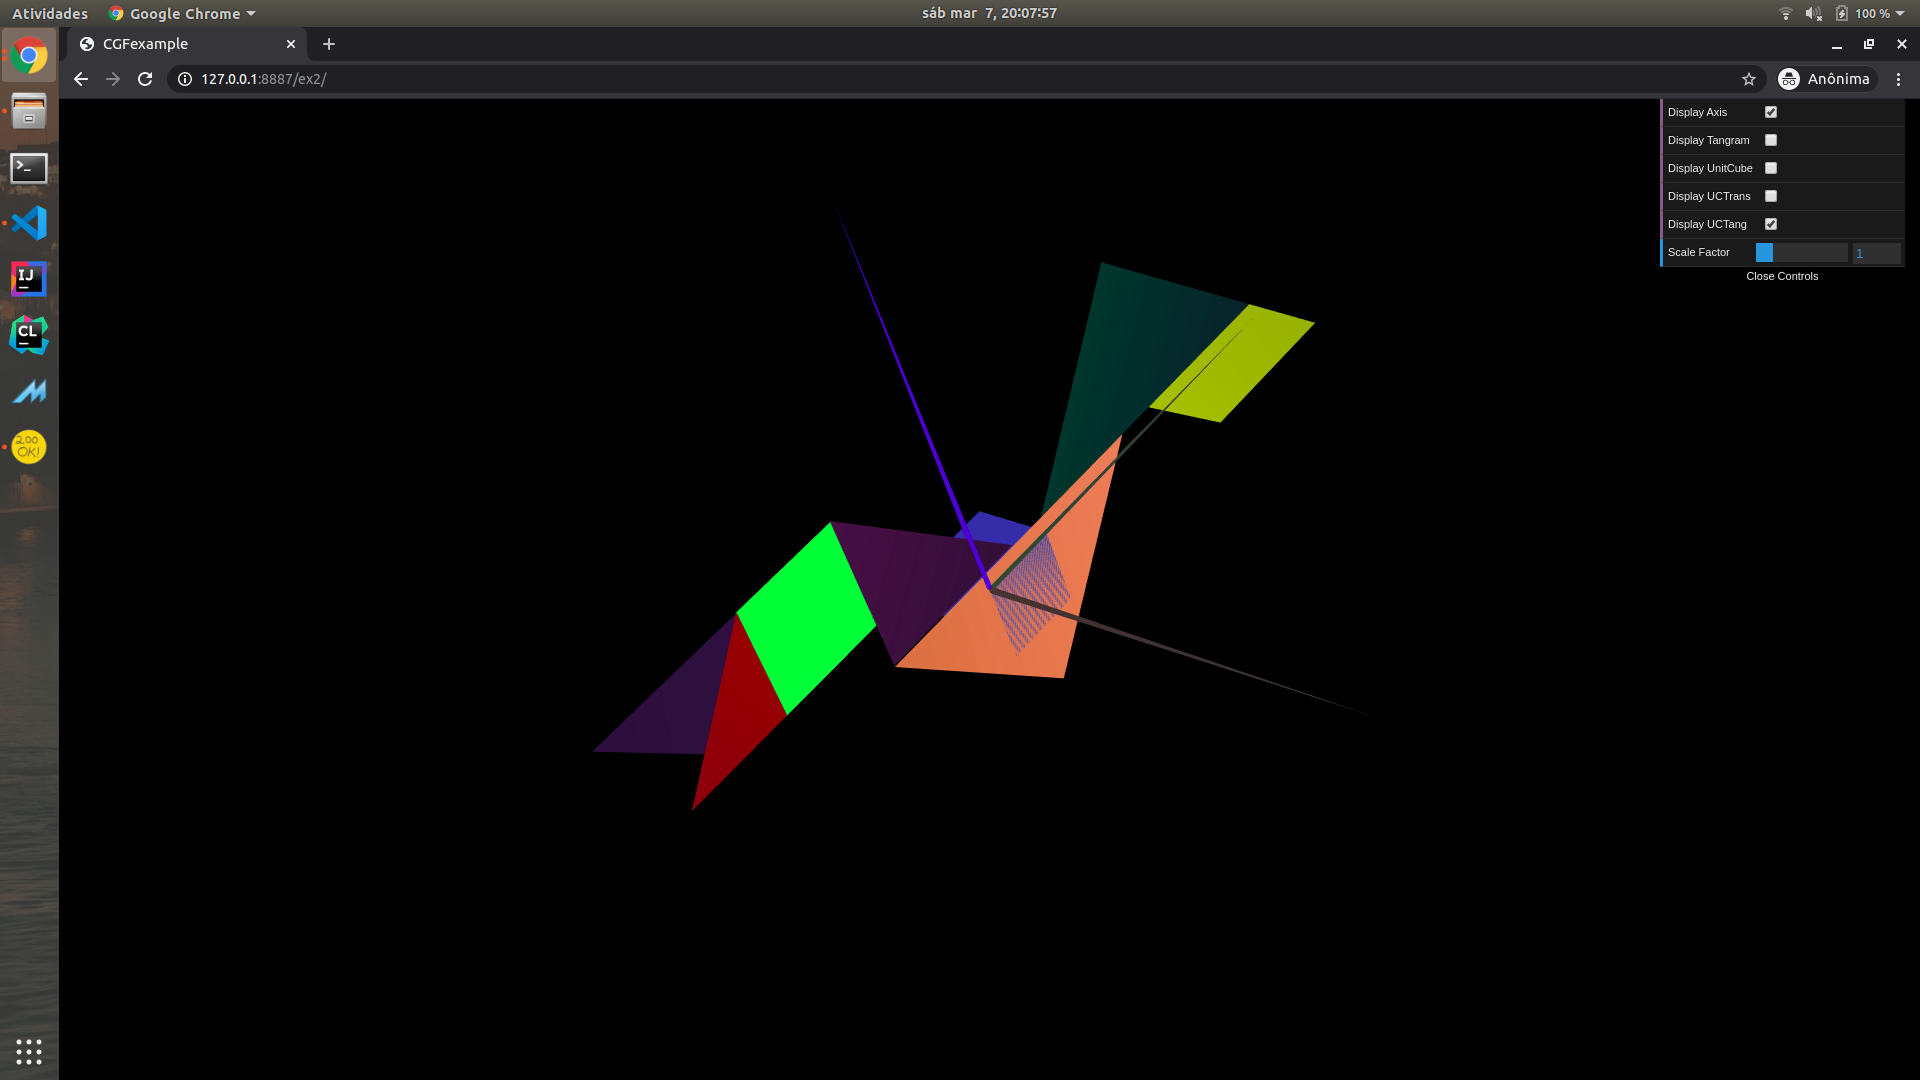
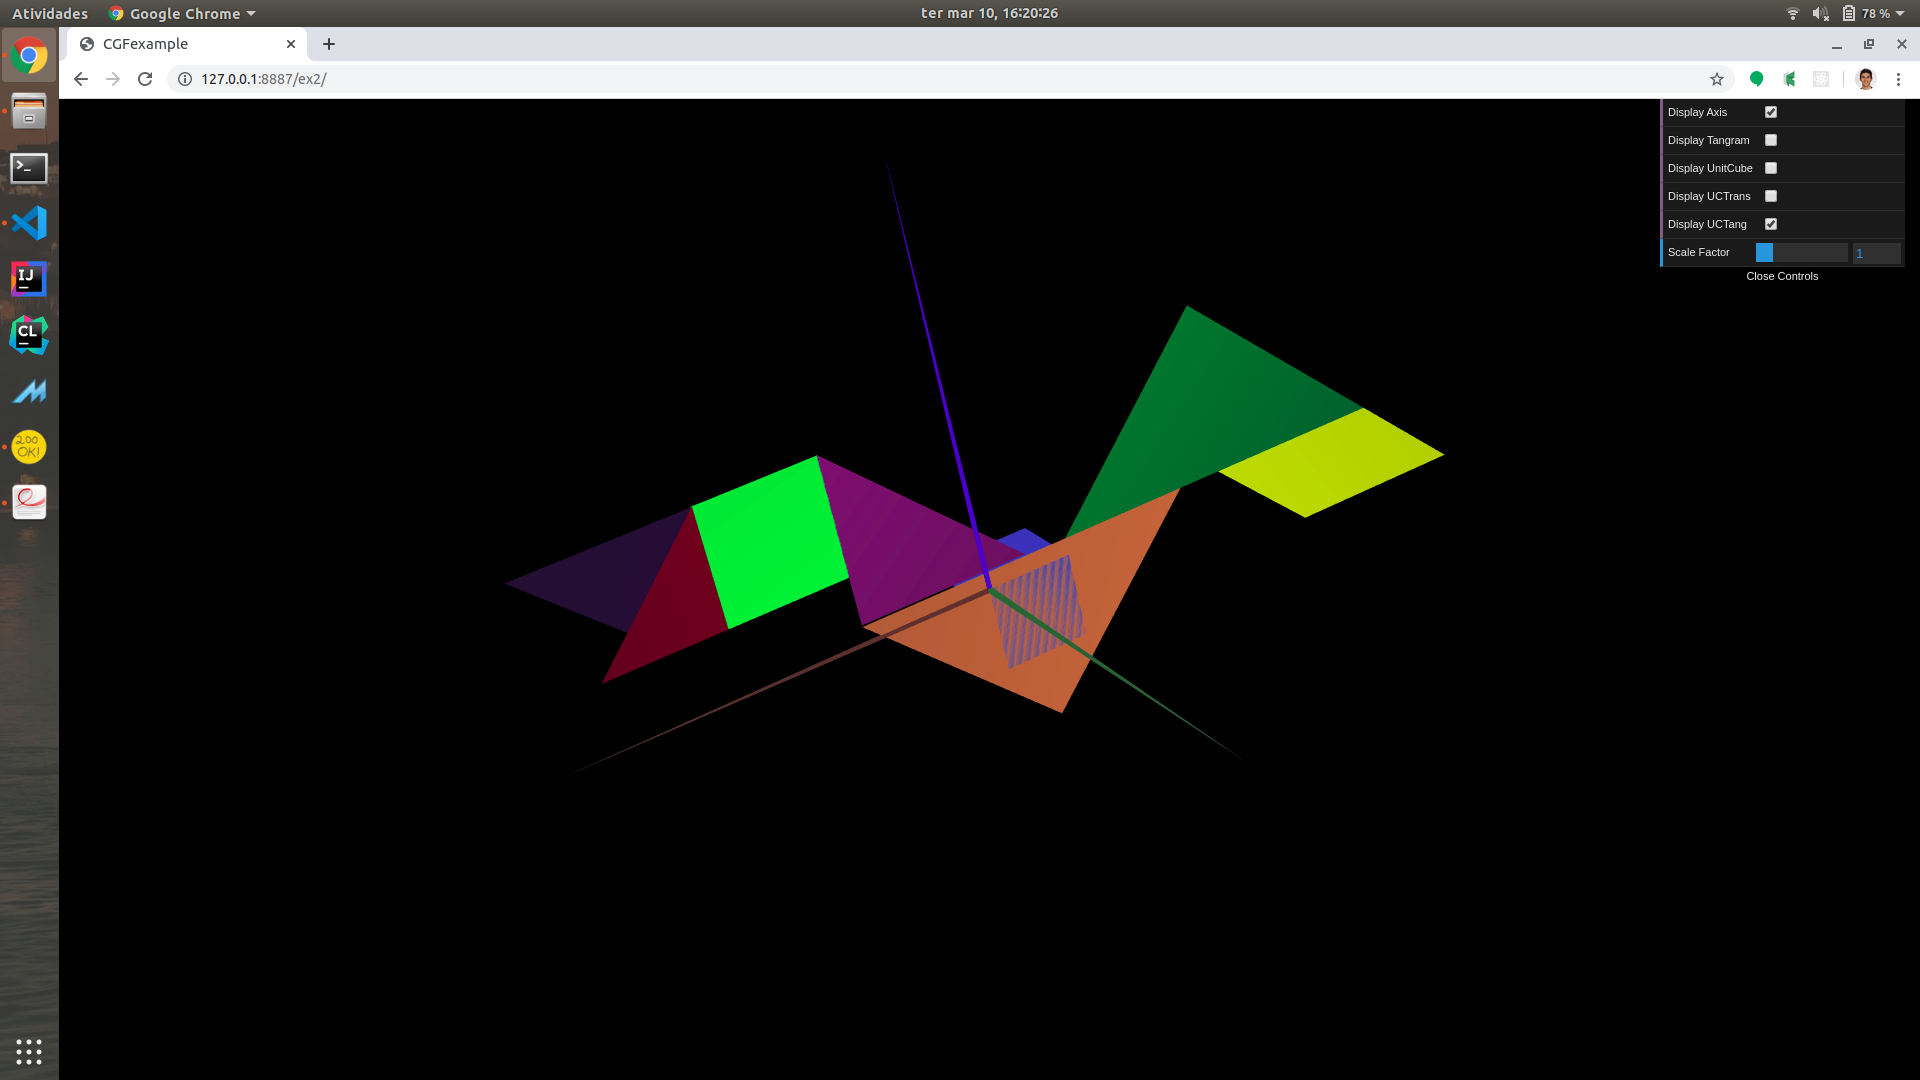
Correction

Changed region(s): [[0.25, 0.2444, 0.75, 0.7333], [0.0312, 0.0, 1.0, 0.0917], [0.0, 0.4278, 0.0312, 0.4889]]

diff --git a/TP2/Joao/ex2-t5g05-2/ex2/MyUnitCubeTangram.js b/TP2/Joao/ex2-t5g05-2/ex2/MyUnitCubeTangram.js
@@ -12,6 +12,7 @@ class MyUnitCubeTangram extends CGFobject {
 	display() {
 
 		this.scene.pushMatrix();
+		this.scene.rotate(Math.PI/2,0,0,1);
 		this.scene.translate(0,0.5, -0.5);
 		this.scene.rotate(Math.PI/2,0,1,0);
         this.scene.rotate(Math.PI/2,0,0,1);
@@ -19,6 +20,7 @@ class MyUnitCubeTangram extends CGFobject {
 		this.scene.popMatrix();
 		
 		this.scene.pushMatrix();
+		this.scene.rotate(Math.PI/2,0,0,1);
 		this.scene.translate(0,0.5, -0.5);
 		this.scene.rotate(Math.PI/2,0,1,0);
 		this.scene.rotate(Math.PI/2,0,0,1);
